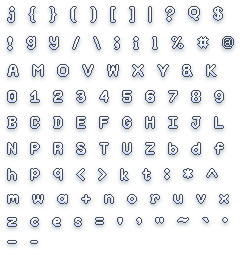
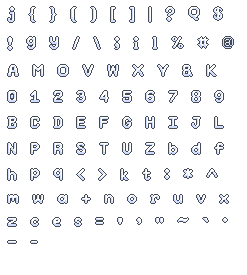
fix: stacking in loading screen text

diff --git a/src/main/resources/tilemaps/university.tsx b/src/main/resources/tilemaps/university.tsx
@@ -1,0 +1,4 @@
+<?xml version="1.0" encoding="UTF-8"?>
+<tileset version="1.10" tiledversion="1.11.2" name="university" tilewidth="32" tileheight="32" tilecount="1600" columns="40">
+ <image source="../assets/tileSets32x32/university.png" width="1280" height="1280"/>
+</tileset>

diff --git a/src/main/java/inf112/zoombiegeddon/view/screens/LoadingScreen.java b/src/main/java/inf112/zoombiegeddon/view/screens/LoadingScreen.java
@@ -9,6 +9,7 @@ import com.badlogic.gdx.scenes.scene2d.ui.Table;
 import com.badlogic.gdx.scenes.scene2d.ui.TextButton;
 import com.badlogic.gdx.utils.ScreenUtils;
 import inf112.zoombiegeddon.app.GameApp;
+import inf112.zoombiegeddon.model.animations.AnimationHandler;
 import inf112.zoombiegeddon.view.FontGenerator;
 
 public class LoadingScreen extends AbstractScreen {
@@ -23,28 +24,31 @@ public class LoadingScreen extends AbstractScreen {
 
     @Override
     public void buildScreen() {
+        super.buildScreen();
+        stage.clear();
 
-        loadingLabel = new Label("Loading... 0%", new Label.LabelStyle(new com.badlogic.gdx.graphics.g2d.BitmapFont(), Color.WHITE));
+        BitmapFont defaultFont = new BitmapFont();
+        Label.LabelStyle style = new Label.LabelStyle(defaultFont, Color.WHITE);
+
+        this.loadingLabel = new Label("Loading... 0%", style);
+        this.loadingLabel.setFontScale(FONTSIZE);
 
         Table loadingScreenTabel = new Table();
-        loadingScreenTabel.center();
         loadingScreenTabel.setFillParent(true);
+        loadingScreenTabel.center().add(this.loadingLabel);
 
         stage.addActor(loadingScreenTabel);
 
-        loadingLabel.setFontScale(FONTSIZE);
-        loadingLabel.setPosition(stage.getWidth() / 2 , stage.getHeight() / 2);
+        if (app.manager.getQueuedAssets() == 0) {
+            loadAssets();
+        }
+    }
 
-        loadingScreenTabel.add(loadingLabel);
-
+    private void loadAssets() {
         app.manager.load(GameApp.UI_SKIN, Skin.class);
         app.manager.load(GameApp.SPLASH_LOGO, Texture.class);
-
-        //app.manager.load(GameApp.CHAR_SHEET, Texture.class);
         app.manager.load(GameApp.FONT_PATH, BitmapFont.class);
-
         app.manager.load(GameApp.CHARACTER_SPRITE_SHEET, Texture.class);
-
         app.manager.load(GameApp.BACKGROUND_LAYER0_PATH, Texture.class);
         app.manager.load(GameApp.BACKGROUND_LAYER1_PATH, Texture.class);
         app.manager.load(GameApp.BACKGROUND_LAYER2_PATH, Texture.class);
@@ -61,28 +65,32 @@ public class LoadingScreen extends AbstractScreen {
 
     @Override
     public void render(float delta) {
-        ScreenUtils.clear(Color.BLACK);
-
-        if (app.manager.update()) {
-            finalizeLoading();
-           app.setScreen(new SplashScreen(app));
-        } else {
-            float progress = app.manager.getProgress() * 100;
-            loadingLabel.setText("Loading... " + (int) progress + "%");
-        }
         super.render(delta);
+        if (!app.manager.update()) {
+            float progress = app.manager.getProgress() * 100;
+            this.loadingLabel.setText("Loading... " + (int) progress + "%");
+        } else {
+            finalizeLoading();
+            app.setScreen(new SplashScreen(app));
+        }
+    }
+
+    @Override
+    public void hide() {
+        super.hide();
+        stage.clear();
     }
 
     private void finalizeLoading() {
+
         app.skin = app.manager.get(GameApp.UI_SKIN, Skin.class);
         app.characterSpriteSheet = app.manager.get(GameApp.CHARACTER_SPRITE_SHEET, Texture.class);
-
-        addBackgroundLevelImages();
-
         app.font = app.manager.get(GameApp.FONT_PATH, BitmapFont.class);
 
-        app.skin.add("default-font", app.font, BitmapFont.class);
+        app.playerAnimations = new AnimationHandler(app.characterSpriteSheet);
 
+        addBackgroundLevelImages();
+        app.skin.add("default-font", app.font, BitmapFont.class);
         app.skin.get(TextButton.TextButtonStyle.class).font = app.font;
         app.skin.get(Label.LabelStyle.class).font = app.font;
     }

diff --git a/src/main/java/inf112/zoombiegeddon/app/GameApp.java b/src/main/java/inf112/zoombiegeddon/app/GameApp.java
@@ -47,10 +47,6 @@ public class GameApp extends Game {
         batch = new SpriteBatch();
         manager = new AssetManager();
 
-        characterSpriteSheet = new Texture(CHARACTER_SPRITE_SHEET);
-
-        playerAnimations = new AnimationHandler(characterSpriteSheet);
-
         this.setScreen(new LoadingScreen(this));
 
         background = new ParallaxBackground(new OrthographicCamera());
@@ -69,6 +65,11 @@ public class GameApp extends Game {
         int height = prefs.getInteger(PREF_HEIGHT, 720);
 
         Gdx.graphics.setWindowedMode(width, height);
+    }
+
+    @Override
+    public void render() {
+        super.render();
     }
 
     @Override

diff --git a/src/main/java/inf112/zoombiegeddon/view/screens/AbstractScreen.java b/src/main/java/inf112/zoombiegeddon/view/screens/AbstractScreen.java
@@ -50,7 +50,6 @@ public abstract class AbstractScreen implements Screen {
 
     @Override
     public void render(float delta) {
-
         ScreenUtils.clear(Color.DARK_GRAY);
 
         stage.act(Math.min(delta, 1 / 30f));
@@ -80,6 +79,7 @@ public abstract class AbstractScreen implements Screen {
     @Override
     public void hide() {
         Gdx.input.setInputProcessor(null);
+        stage.clear();
     }
 
     public void dispose() {
